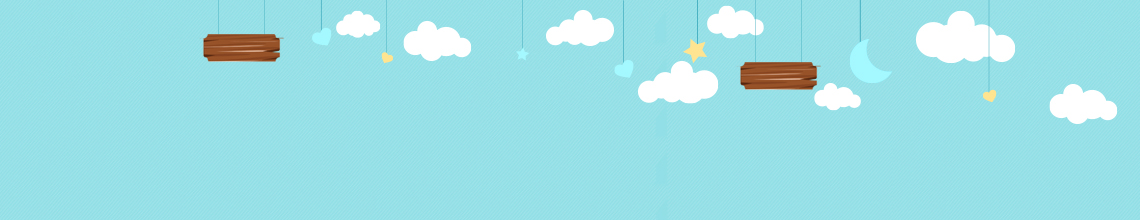
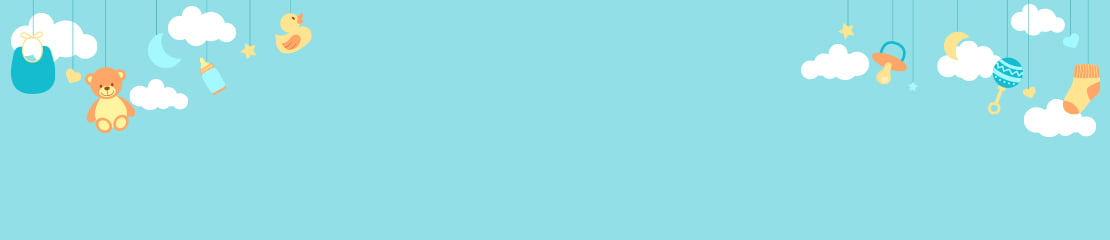
Change brand and category background in Products page

diff --git a/products.html b/products.html
@@ -138,7 +138,7 @@
     <!-- start Brands section -->
     <!-- start Brands section -->
     <div class="container">
-      <div class="d-flex flex-column justify-content-center align-items-center div-contain">
+      <div class="d-flex flex-column justify-content-center align-items-center brand-contain">
         <div class="text-center">
           <h1>BRANDS</h1>
           <h4>Browse our full range of baby products from trusted Brands</h4> <br>
@@ -177,7 +177,7 @@
   <section id="category" data-aos="fade-up">
     <!-- start Categories section -->
     <div class="container">
-      <div class="d-flex flex-column justify-content-center align-items-center div-contain">
+      <div class="d-flex flex-column justify-content-center align-items-center category-contain">
         <div class="text-center">
           <h1>ALL CATEGORIES</h1>
           <h4>Browse our full categories of baby products</h4>

diff --git a/products/products.css b/products/products.css
@@ -298,6 +298,28 @@ a.nav-link:hover {
   color: rgb(194, 107, 121);
 }
 
+.brand-contain {
+  border: gainsboro solid 1px;
+  padding: 16px;
+  margin: 20px 0px;
+  background: url(./images/brand-background.jpg);
+  background-repeat: no-repeat;
+  background-size: cover;
+  font-family: "Poppins", sans-serif;
+  color: rgb(194, 107, 121);
+}
+
+.category-contain {
+  border: gainsboro solid 1px;
+  padding: 16px;
+  margin: 20px 0px;
+  background: url(./images/product-background.jpg);
+  background-repeat: no-repeat;
+  background-size: cover;
+  font-family: "Poppins", sans-serif;
+  color: rgb(194, 107, 121);
+}
+
 .brand-container {
   width: 100%;
 }
